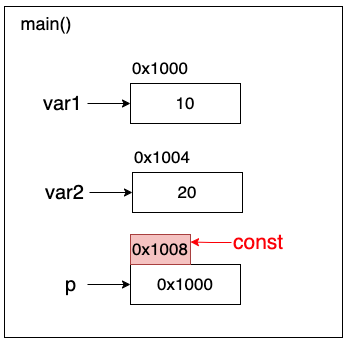
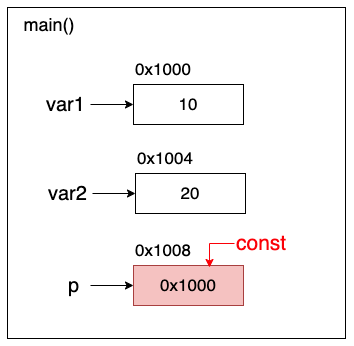
c++ malloc void指標

diff --git a/_pages/c/dynamicMemory/malloc.md b/_pages/c/dynamicMemory/malloc.md
@@ -3,24 +3,42 @@ title: malloc
 date: 2025-03-13
 keywords: c, malloc
 ---
+Prerequisites:
+
+- [void\* 指標][3]
+
 ## 語法
-
 {% highlight c++ linenos %}
-void* malloc(size_t __size)
+void* malloc(size_t size)
 {% endhighlight %}
 
-## 傳回值型態
-由於malloc傳回的類型是void\*指標地址，void\*可以強轉成任何型態。
+### 傳回值型態
+由於malloc傳回的類型是void\*指標位址，void\*可以強轉成任何型態。<br>
 
-所以可以[強制轉型][1]
+傳回值是void\*要[強制轉型][1]。
+
+傳回記憶體空間的起始位址。<br>
+
+例:建立5個int空間，int空間占4byte，也就是建立5 \* 4byte = 20byte。<br>
+
+下圖中，p變數指向第1個int空間的起始位址，總共建立5個int空間。<br>
+![img]({{site.imgurl}}/c++/malloc1.png)<br>
+
 {% highlight c++ linenos %}
-char* name = (char* )malloc(10);  // 10byte
-int* num = (int* )malloc(1 * 1024 * 1024);  // 1byte * 1024 = 1kb ->1kb * 1024=1mb
+  int len = 5;
+  int* p = (int * )malloc(len * sizeof(int));
 {% endhighlight %}
 
-## 參數size_t
+其它範例:<br>
+{% highlight c++ linenos %}
+char* p1 = (char* )malloc(10);  // 10byte
+int* p2 = (int* )malloc(1 * 1024 * 1024);  // 1byte * 1024 = 1kb ->1kb * 1024=1mb
+{% endhighlight %}
 
-參數`size_t  __size`代表設定空間大小
+### 參數size_t
+size_t是無正負號，unsigned int整數。<br>
+
+參數`size_t size`代表設定空間大小，單位是byte。
 
 也可以這樣定義
 {% highlight c++ linenos %}
@@ -29,38 +47,132 @@ int* num = (int* )malloc(1 * 1024 * 1024);  // 1byte * 1024 = 1kb ->1kb * 1024=1
 int* num = (int* )malloc(sizeof(int) * 10);
 {% endhighlight %}
 
-變數申請動態空間
+char是1byte，就不用寫sizeof(char)。<br>
 {% highlight c++ linenos %}
 char* name = (char* )malloc(100);
 {% endhighlight %}
 
 ### 初始化memset
 -[memset][2]
-把指標所指向的記憶體內容，初始化要定義的值  
-以下是把jj指標所指向的記憶體空間，全變成NULL，0等於NULL  
+把指標所指向的記憶體內容，初始化。<br>
+以下是把p指標所指向的記憶體空間，全變成0。<br>
+
+c++的0，就是nullptr、NULL。<br>
+
+各種型態的預設值都是0，char的`\0`，也是0，對映ASCII CODE碼`\0`就是整數0。
+
+|型態|預設值|
+|int|0|
+|char|`\0`|
+|float|0.0|
+|double|0.0|
+|指標類型|NULL|
+
 {% highlight c++ linenos %}
-void* jj = malloc(1 * 1024 * 1024);
-size_t jj_size = 1 * 1024 * 1024;
-memset(jj, 0, jj_size);  // 初始化jj指標所指向的內存為0
+size_t size = 1 * 1024 * 1024;
+void* p = malloc(size);
+memset(p, 0, size);  // 初始化都為0
 {% endhighlight %}
 
-### 釋放記憶體空間
-使用完要手動釋放空間，不然會造成記憶體洩露  
+### 記憶體回收
+所謂的記憶體回收，是指這個空間已經沒有人使用了，還給系統，並<span class="markline">沒有清空</span>。<br>
+只是告訴系統，這塊空間已經沒人用。<br>
+下一次系統可以分配變數使用這個記憶體空間。<br> 
 {% highlight c++ linenos %}
-name = 0;  // 相當於 name = NULL  
-free(name);  
-name = nullptr;  
+size_t size = 1 * 1024 * 1024;
+void* p = malloc(size);
+memset(p, 0, size);  // 初始化都為0
+free(p);
 {% endhighlight %}
 
-### 完整程式碼
+下面的程式，func()函式執行完後，區域變數n已經被系統回收。<br>
+main()函式，試圖把func()函式中的n變數取出來，但印出的值已經不是100，因為原本n的記憶體空間已經被系統拿去放"test test"的內容，所謂的回收，就是告訴系統這塊記憶體空間不使用，可以拿來放其它的值。<br>
 {% highlight c++ linenos %}
-  // jj指標指向1mb的動態內存空間1byte*1024 = 1kb ->1kb*1024=1mb
-  void* jj = malloc(1 * 1024 * 1024);
-  size_t jj_size = 1 * 1024 * 1024;
-  memset(jj, 0, jj_size);  // 初始化jj指標所指向的記憶體位址的值為0
-  free(jj);  // 把jj指標的空間釋放，若使用malloc要用free來釋放空間
-  jj = 0;    // jj指標設為0也就是null
+int* func() {
+  int n = 100;
+  return &n;
+}
+int main() {
+  int* p = func();
+  int n;
+  printf("test test\n");
+  n = * p;
+  printf("%d\n",n);
+  return 0;
+}
 {% endhighlight %}
+```
+test test
+-610123577
+```
+## 指標p設為nullptr
+記憶體回收完畢，要把p指標指向nullptr。<br>
+不能讓p指標指向「已回收」的記憶體空間。<br>
+p也可以指向0。<br>
+p也可以指向NULL。<br>
+都是相同的意思。<br>
+{% highlight c++ linenos %}
+free(p);  
+p = nullptr;
+// p = 0;  
+// p = NULL    
+{% endhighlight %}
+
+## 建立陣列
+以下程式碼建立大小為5的整數(4 byte)陣列。<br>
+sizeof(int)為4byte。<br>
+大小 = 5 \* 4byte = 20 byte <br>
+
+空間建立完後，會有一個記憶體空間，裡面有5個空間，每個空間都是4byte。<br>
+p指標指向記憶體空間的起始位址。<br>
+![img]({{site.imgurl}}/c++/malloc1.png)<br>
+
+### 指標移動
+因為是`int*`的指標，所以每一次移動都是移動4byte。<br>
+
+p是記憶體位址，p = 0x1000，\+ 1 代表記憶體位址 \+ 4 byte。<br>
+p + 0 = 0x1000 + 0byte = 0x1000 <br>
+p + 1 = 0x1000 + 4byte = 0x1004 <br>
+p + 2 = 0x1000 + 8byte = 0x1008 <br>
+p + 3 = 0x1000 + 12byte = 0x100C <br>
+p + 4 = 0x1000 + 16byte = 0x1010 <br>
+![img]({{site.imgurl}}/c++/malloc2.png)<br>
+
+p\+\+ 就是 p = p \+ 1，\+ 1 代表記憶體位址 \+ 4 byte。<br>
+
+但這邊有用等於，代表每移動1次，p變數也會修改。<br>
+
+因為p會修改，所以下面程式使用p2記錄p指標一開始的起始位址。<br>
+
+{% highlight c++ linenos %}
+int main() {
+  int len = 5;
+  // p 指向起始位址
+  int* p = (int * )malloc(len * sizeof(int));
+  // 記錄p指標一開始的起始位址
+  int* p2 = p;
+  for (int i = 0; i < len; i++) {
+    // 記憶體位址的值，指派為i變數
+    * p = i;
+    // p = p + 1，每移動一次，p的位址也會更改
+    p++;
+  }
+  for (int i = 0; i < len; i++) {
+    // 使用p2印出值
+    cout << * (p2 + i) << ", ";
+  }
+  cout << endl;
+  // 記憶體位址回收
+  free(p);
+  // p指標設為null
+  p = nullptr;  
+  return 0;
+}
+{% endhighlight %}
+```
+0, 1, 2, 3, 4, 
+```
 
 [1]: {% link _pages/c/conversion/type_conversion.md %}
 [2]: {% link _pages/c/array/array.md %}#memset陣列清空
+[3]: {% link _pages/c/pointer/pointerVoid.md %}

diff --git a/_pages/c/pointer/pointerVoid.md b/_pages/c/pointer/pointerVoid.md
@@ -1,17 +1,58 @@
 ---
-title: void*任何資料型態的指標
+title: void\* 指標
 date: 2024-05-30
-keywords: c++, pointer, void*, void
+keywords: c++, pointer, void\*, void
 ---
+## void\*轉型
+void\*指標是所有指標的父類別。<br>
+所以可以轉型成任何子類別。<br>
 
-## (void*)印出16進制的位址
+下面程式，p指標指向i變數的記憶體位址。<br>
+把p指標強制轉型成void\*指標。
+{% highlight c++ linenos %}
+int main() {
+  int i = 10;
+  int* p = &i;
+  void* vp = (void* )p;
+  return 0;
+}
+{% endhighlight %}
 
-使用(void*)就可以印出16進制的位址
+但void\*指標不支援\*取值運算子，以下編譯錯誤。<br>
+{% highlight c++ linenos %}
+int main() {
+  int i = 10;
+  int* p = &i;
+  void* vp = (void* )p;
+  cout << * vp << endl;
+  return 0;
+}
+{% endhighlight %}
+
+將位址轉成void\*要強制轉型。<br>
+{% highlight c++ linenos %} 
+  void* vp = (void* )&i;
+{% endhighlight %}
+
+將void\*強制轉型回int\*類型，就可以使用\*取值運算子。<br>
+{% highlight c++ linenos %}
+int main() {
+  int i = 10;
+  // 將位址轉成void*要強制轉型
+  void* vp = (void* )&i;
+  int* p = (int* )vp;
+  cout << * p << endl;
+  return 0;
+}
+{% endhighlight %}
+
+## (void\*)印出16進制的位址
+使用(void\*)就可以印出16進制的位址
 
 {% highlight c++ linenos %}
 int main() {
   char c = 'a';
-  cout << "變數c位址 = " << (void*)&c << endl;
+  cout << "變數c位址 = " << (void* )&c << endl;
   return 0;
 }
 {% endhighlight %}
@@ -19,10 +60,8 @@ int main() {
 變數c位址 = 0x7ff7bfeff46b
 ```
 
-## 函式的參數為void*指標(位址)
-
-函式的參數為void*指標，表示任何資料型態的指標(位址)都可以傳進函式，而且不需要轉型。
-
+## 函式的參數為void\*指標(位址)
+函式的參數為void\*指標，表示任何資料型態的指標(位址)都可以傳進函式，而且不需要轉型。
 {% highlight c++ linenos %}
 //宣告printAddr的函式，參數資料型態為void*指標
 void printAddr(void* p) {

diff --git a/_pages/c/pointer/pointerConst.md b/_pages/c/pointer/pointerConst.md
@@ -126,7 +126,8 @@ zzz
 int* const p = &i;
 {% endhighlight %}
 
-下圖中，const保護的是0x1008記憶體<span class="markline">位址</span>不被修改。<br>
+下圖中，const保護的是指標存的記憶體<span class="markline">位址</span>不被修改。<br>
+p變數的記憶體位址0x1008，儲存的0x1000的記憶體位址，要保護的是儲存的0x1000，不被修改成其它記憶體位址。<br>
 ![img]({{site.imgurl}}/c++/const_p2.png)<br>
 
 使用const修飾指標變數，代表指標不能再指向其它記憶體位址。<br>
